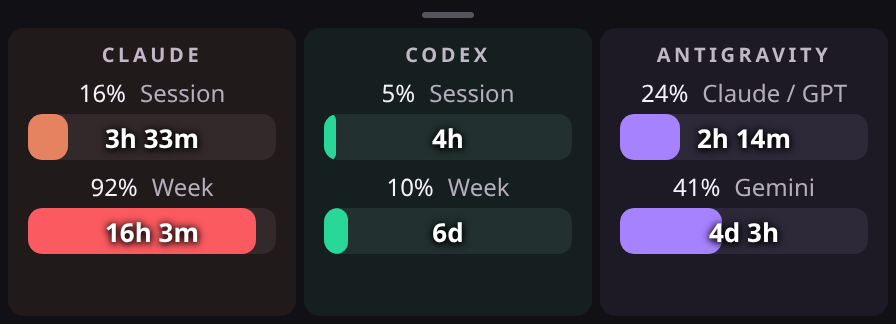
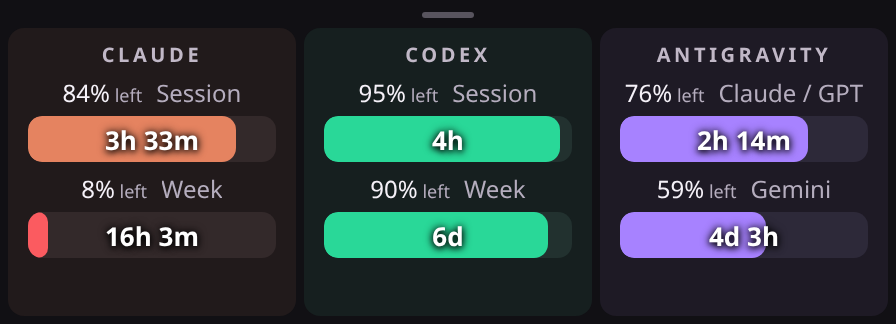
Add floating widget reload and display controls

diff --git a/Integrations/FloatingWidget/FloatingWidget.swift b/Integrations/FloatingWidget/FloatingWidget.swift
@@ -9,6 +9,18 @@ private final class FloatingPanel: NSPanel {
     override var canBecomeMain: Bool {
         false
     }
+
+    override func sendEvent(_ event: NSEvent) {
+        let controlClick = event.type == .leftMouseDown && event.modifierFlags.contains(.control)
+        if event.type == .rightMouseDown || controlClick,
+           let contentView = self.contentView,
+           let menu = contentView.menu
+        {
+            NSMenu.popUpContextMenu(menu, with: event, for: contentView)
+            return
+        }
+        super.sendEvent(event)
+    }
 }
 
 private final class DragHandle: NSView {
@@ -20,12 +32,11 @@ private final class DragHandle: NSView {
 
 @main
 @MainActor
-final class FloatingWidget: NSObject, NSApplicationDelegate, NSWindowDelegate, WKNavigationDelegate {
+final class FloatingWidget: NSObject, NSApplicationDelegate, NSMenuDelegate, NSWindowDelegate, WKNavigationDelegate {
     private static let defaultProviders = ["claude", "codex", "antigravity"]
     private let defaults = UserDefaults.standard
     private let feed = DashboardFeed()
     private let statusItem = NSStatusBar.system.statusItem(withLength: NSStatusItem.squareLength)
-    private let visibilityItem = NSMenuItem(title: "", action: #selector(toggleVisibility), keyEquivalent: "")
     private var providerIDs = FloatingWidget.defaultProviders
     private var refreshTask: Task<Void, Never>?
     private var rawSnapshot = ""
@@ -56,10 +67,15 @@ final class FloatingWidget: NSObject, NSApplicationDelegate, NSWindowDelegate, W
     func applicationDidFinishLaunching(_: Notification) {
         self.providerIDs = self.defaults.stringArray(forKey: "ProviderIDs") ?? Self.defaultProviders
         self.configurePanel()
-        self.configureMenu()
+        self.configureStatusItem()
         let saved = self.defaults.string(forKey: "PanelOrigin").map(NSPointFromString)
         self.placePanel(at: saved)
-        self.showPanel()
+        self.reloadUsage()
+    }
+
+    func applicationShouldHandleReopen(_: NSApplication, hasVisibleWindows _: Bool) -> Bool {
+        if !self.panel.isVisible { self.reloadUsage() }
+        return false
     }
 
     func applicationDidChangeScreenParameters(_: Notification) {
@@ -92,6 +108,7 @@ final class FloatingWidget: NSObject, NSApplicationDelegate, NSWindowDelegate, W
         self.panel.hasShadow = true
 
         let content = NSView(frame: NSRect(origin: .zero, size: self.panel.frame.size))
+        content.menu = self.controlsMenu()
         content.wantsLayer = true
         content.layer?.cornerRadius = 12
         content.layer?.masksToBounds = true
@@ -111,25 +128,52 @@ final class FloatingWidget: NSObject, NSApplicationDelegate, NSWindowDelegate, W
         }
     }
 
-    private func configureMenu() {
+    private func configureStatusItem() {
         let icon = NSImage(systemSymbolName: "chart.bar.xaxis", accessibilityDescription: self.panel.title)
         self.statusItem.button?.image = icon
         self.statusItem.button?.toolTip = self.panel.title
+        self.statusItem.menu = self.controlsMenu()
+        self.statusItem.isVisible = !self.defaults.bool(forKey: "MenuBarIconHidden")
+    }
 
+    private func controlsMenu() -> NSMenu {
         let menu = NSMenu()
-        self.visibilityItem.target = self
-        menu.addItem(self.visibilityItem)
-        let choose = NSMenuItem(title: "Choose Providers…", action: #selector(chooseProviders), keyEquivalent: "")
-        choose.target = self
-        menu.addItem(choose)
+        menu.delegate = self
+        self.menuNeedsUpdate(menu)
+        return menu
+    }
+
+    func menuNeedsUpdate(_ menu: NSMenu) {
+        menu.removeAllItems()
+        let reload = menu.addItem(withTitle: "Reload Usage", action: #selector(self.reloadUsage), keyEquivalent: "")
+        reload.target = self
+        let visibility = menu.addItem(
+            withTitle: self.panel.isVisible ? "Hide Widget" : "Show Widget",
+            action: #selector(self.toggleVisibility),
+            keyEquivalent: "")
+        visibility.target = self
+        let providers = menu.addItem(
+            withTitle: "Choose Providers…",
+            action: #selector(self.chooseProviders),
+            keyEquivalent: "")
+        providers.target = self
+        let icon = menu.addItem(
+            withTitle: self.statusItem.isVisible ? "Hide Menu Bar Icon" : "Show Menu Bar Icon",
+            action: #selector(self.toggleMenuBarIcon),
+            keyEquivalent: "")
+        icon.target = self
         menu.addItem(.separator())
-        let quit = NSMenuItem(
-            title: "Quit Floating Widget",
+        let quit = menu.addItem(
+            withTitle: "Quit Floating Widget",
             action: #selector(NSApplication.terminate(_:)),
             keyEquivalent: "q")
         quit.target = NSApp
-        menu.addItem(quit)
-        self.statusItem.menu = menu
+    }
+
+    @objc private func toggleMenuBarIcon() {
+        let shouldHide = self.statusItem.isVisible
+        self.defaults.set(shouldHide, forKey: "MenuBarIconHidden")
+        self.statusItem.isVisible = !shouldHide
     }
 
     private func placePanel(at origin: NSPoint?) {
@@ -146,25 +190,25 @@ final class FloatingWidget: NSObject, NSApplicationDelegate, NSWindowDelegate, W
         self.panel.setFrame(NSRect(origin: position, size: size), display: true)
     }
 
-    private func showPanel() {
+    @objc private func reloadUsage() {
+        if !self.panel.isVisible { self.panel.orderFrontRegardless() }
         self.refreshTask?.cancel()
-        self.status = "Loading usage…"
-        self.rawSnapshot = ""
-        self.updatePage()
-        self.panel.orderFrontRegardless()
-        self.visibilityItem.title = "Hide Widget"
+        if self.rawSnapshot.isEmpty { self.publish(snapshot: "", status: "Loading usage…") }
         self.refreshTask = Task { [weak self, feed = self.feed] in
             while !Task.isCancelled {
+                let delay: Duration
                 do {
                     let snapshot = try await feed.snapshot()
                     guard !Task.isCancelled else { return }
                     self?.publish(snapshot: snapshot, status: "")
+                    delay = .seconds(60)
                 } catch {
                     guard !Task.isCancelled else { return }
                     self?.publish(snapshot: "", status: error.localizedDescription)
+                    delay = .seconds(10)
                 }
                 do {
-                    try await Task.sleep(for: .seconds(60))
+                    try await Task.sleep(for: delay)
                 } catch {
                     return
                 }
@@ -177,9 +221,8 @@ final class FloatingWidget: NSObject, NSApplicationDelegate, NSWindowDelegate, W
             self.refreshTask?.cancel()
             self.refreshTask = nil
             self.panel.orderOut(nil)
-            self.visibilityItem.title = "Show Widget"
         } else {
-            self.showPanel()
+            self.reloadUsage()
         }
     }
 

diff --git a/Integrations/FloatingWidget/usage.ts b/Integrations/FloatingWidget/usage.ts
@@ -1,12 +1,14 @@
 interface WindowReading {
   label: string;
   usedPercent: number | null;
+  displayPercent: number | null;
   resetAt: number | null;
 }
 
 interface ProviderCard {
   name: string;
   accent: string;
+  showUsed: boolean;
   rows: WindowReading[];
   extraRows: number;
   stale: boolean;
@@ -48,16 +50,22 @@ function resetCountdown(resetAt: number | null, now: number): string {
   return `${minutes}m`;
 }
 
-function quotaRow(raw: unknown): WindowReading | null {
+function finitePercent(value: unknown): number | null {
+  return typeof value === "number" && Number.isFinite(value) ? Math.min(100, Math.max(0, value)) : null;
+}
+
+function quotaRow(raw: unknown, showUsed: boolean): WindowReading | null {
   const row = object(raw);
   if (!row || row.idle === true) return null;
-  const reported = row.usedPercent;
-  const usedPercent =
-    typeof reported === "number" && Number.isFinite(reported) ? Math.min(100, Math.max(0, reported)) : null;
+  const reportedUsed = finitePercent(row.usedPercent);
+  const reportedRemaining = finitePercent(row.remainingPercent);
+  const usedPercent = reportedUsed ?? (reportedRemaining === null ? null : 100 - reportedRemaining);
+  const remainingPercent = reportedRemaining ?? (usedPercent === null ? null : 100 - usedPercent);
   const name = label(row.label, "Usage");
   return {
     label: name === "Weekly" ? "Week" : name,
     usedPercent,
+    displayPercent: showUsed ? usedPercent : remainingPercent,
     resetAt: timestamp(row.resetAt),
   };
 }
@@ -65,6 +73,7 @@ function quotaRow(raw: unknown): WindowReading | null {
 function makeCards(snapshot: unknown, providerIDs: string[], now: number): ProviderCard[] | null {
   const root = object(snapshot);
   if (!root || root.schemaVersion !== 1 || !Array.isArray(root.providers)) return null;
+  const showUsed = object(root.host)?.usageBarsShowUsed === true;
 
   const timeout = root.staleAfterSeconds;
   const maxAge = (typeof timeout === "number" && timeout > 0 ? timeout : 180) * 1_000;
@@ -81,7 +90,7 @@ function makeCards(snapshot: unknown, providerIDs: string[], now: number): Provi
     const rows =
       provider?.enabled === true && Array.isArray(provider.windows)
         ? provider.windows.flatMap((raw: unknown) => {
-            const row = quotaRow(raw);
+            const row = quotaRow(raw, showUsed);
             return row ? [row] : [];
           })
         : [];
@@ -89,6 +98,7 @@ function makeCards(snapshot: unknown, providerIDs: string[], now: number): Provi
     const accent = object(provider?.display)?.accentColor;
     return {
       name: label(provider?.name, id),
+      showUsed,
       accent: Object.hasOwn(providerColors, id)
         ? providerColors[id]
         : typeof accent === "string" && /^#[0-9a-f]{6}$/i.test(accent)

diff --git a/Integrations/FloatingWidget/widget.ts b/Integrations/FloatingWidget/widget.ts
@@ -28,14 +28,17 @@ function renderCard(card: ProviderCard, now: number): HTMLElement {
   for (const row of card.rows) {
     const quota = element("div", "quota");
     const caption = element("div", "caption");
-    const used = row.usedPercent === null ? "—" : `${Math.round(row.usedPercent)}%`;
+    const percent = row.displayPercent === null ? "—" : `${Math.round(row.displayPercent)}%`;
+    const percentage = element("span", "percentage", percent);
+    if (row.displayPercent !== null)
+      percentage.append(element("span", "quota-mode", card.showUsed ? " used" : " left"));
     const name = element("span", "label", row.label);
     name.title = row.label;
-    caption.append(element("span", "percentage", used), name);
+    caption.append(percentage, name);
 
     const track = element("div", "track");
     const fill = element("div", "fill");
-    fill.style.width = `${row.usedPercent ?? 0}%`;
+    fill.style.width = `${row.displayPercent ?? 0}%`;
     if (row.usedPercent !== null && row.usedPercent >= 90) fill.classList.add("limit");
     const reset = resetCountdown(row.resetAt, now);
     const countdown = element("span", "countdown", reset);

diff --git a/Integrations/FloatingWidget/widget.css b/Integrations/FloatingWidget/widget.css
@@ -79,6 +79,11 @@ body {
   flex-shrink: 0;
 }
 
+.quota-mode {
+  color: #b5adbe;
+  font-size: 9px;
+}
+
 .label {
   overflow: hidden;
   color: #b5adbe;

diff --git a/Integrations/FloatingWidget/README.md b/Integrations/FloatingWidget/README.md
@@ -2,8 +2,9 @@
 
 Keep compact usage cards over your work while another app has focus. The panel joins
 your Spaces and can appear alongside full-screen apps. Each card shows the first two
-visible quota windows, the percentage used, and time until reset. It starts with
-Claude, Codex, and Antigravity.
+visible quota windows, a percentage, and time until reset. Bars and percentages
+follow CodexBar's **Usage bars fill** setting. It starts with Claude, Codex, and
+Antigravity.
 
 <img src="preview.png" alt="Sample usage cards for Claude, Codex, and Antigravity" width="448" />
 
@@ -34,8 +35,14 @@ quit it and move **CodexBar Floating Widget.app** from `~/Applications` to the T
 ## Use the widget
 
 - Drag the handle along the top of the panel. The app remembers its position.
-- Click the chart icon in the menu bar to **Hide Widget**, **Show Widget**, or
-  **Quit Floating Widget**. Hidden widgets pause their usage requests.
+- Right-click or Control-click the widget, or click the chart icon in the menu bar,
+  to open its controls. Choose **Reload Usage** to check the server immediately.
+  If the server is unavailable, the widget retries every ten seconds after each
+  failed request.
+- Choose **Hide Menu Bar Icon** to keep only the widget, or **Show Menu Bar Icon**
+  from the widget's menu to bring it back. The setting is saved across launches.
+- **Hide Widget** pauses its usage requests. If both the widget and the icon are
+  hidden, open **CodexBar Floating Widget.app** again to show the panel.
 - Choose **Choose Providers…** in the same menu and enter one to three provider IDs
   in the order you want. See the [provider IDs](../../docs/provider-ids.md).
 - Keep CodexBar running. The widget requests a new dashboard snapshot roughly once
